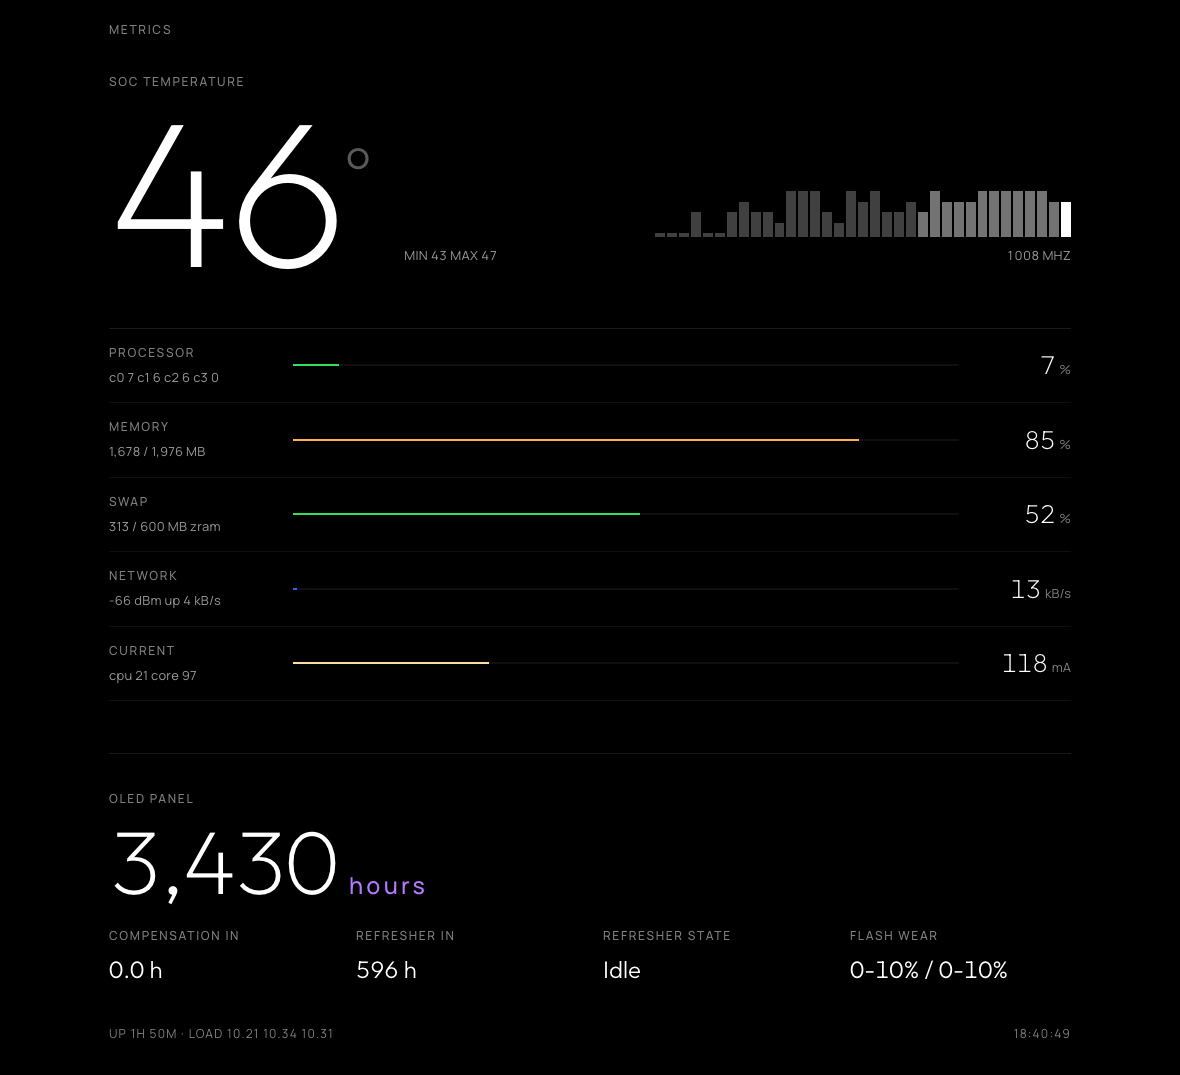
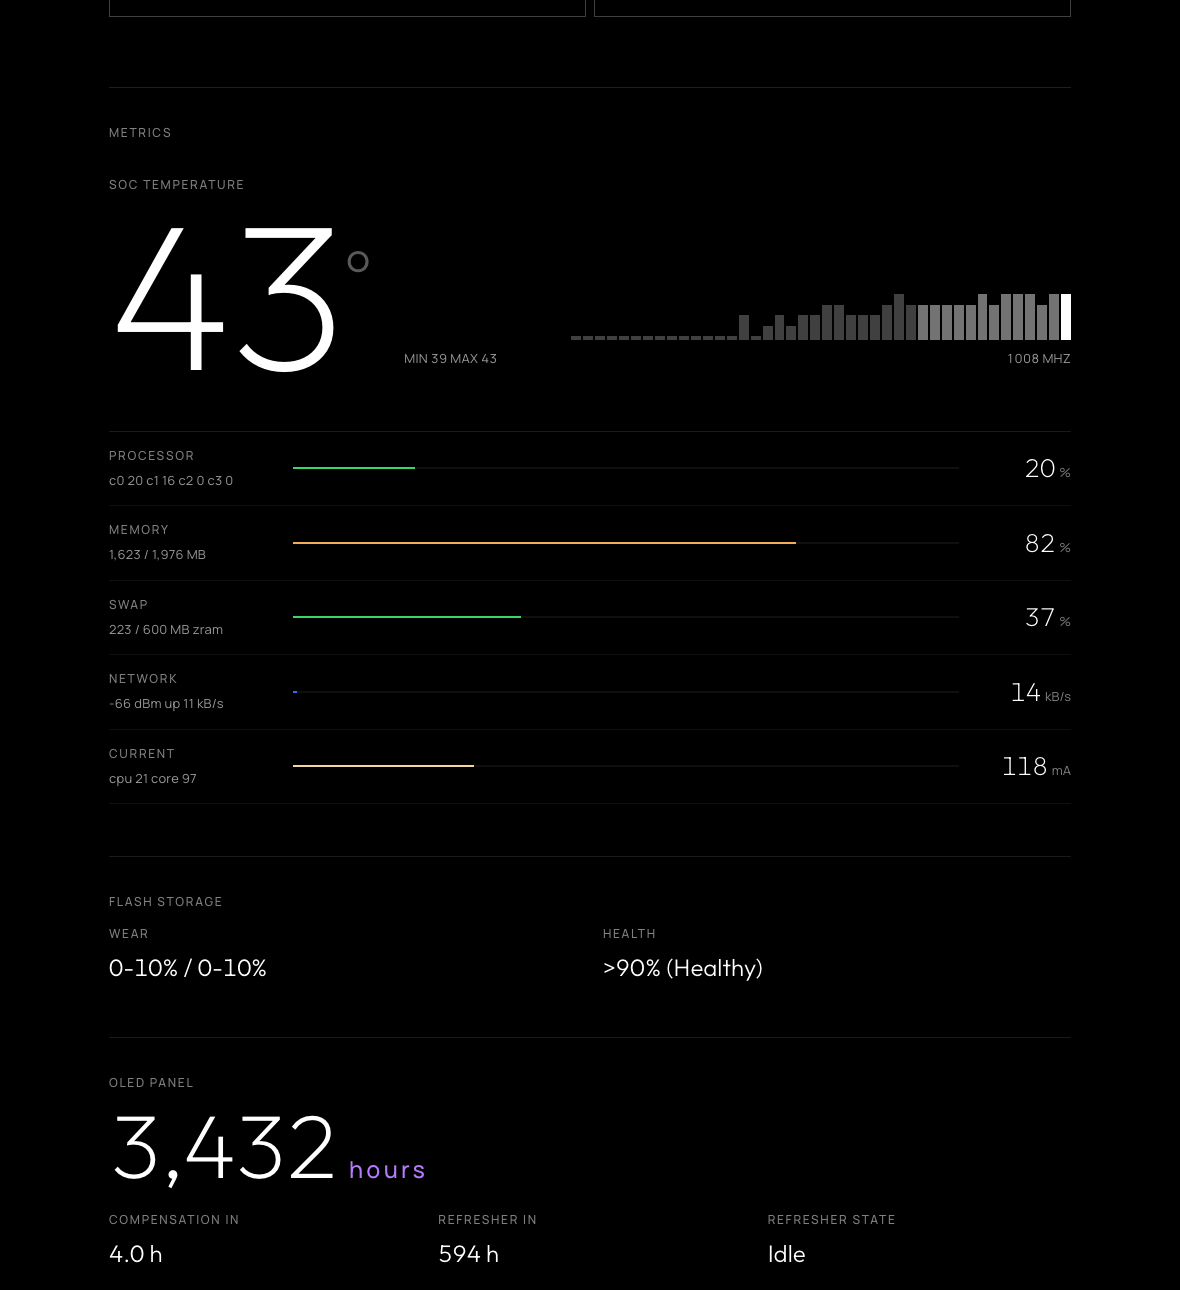
Fix hidden being ignored; move flash storage out of the OLED block
Two bugs, reported from the dashboard.

The `hidden` attribute was doing nothing on any element carrying an
author display rule. .cols and .r are grids, and an author declaration
beats the UA stylesheet's display:none, so hiding silently failed. The
standalone flash row rendered on an OLED set - blank, because it is only
populated when the panel is not OLED - and the network and current rows
would not have hidden on a wired set either. Restated as
[hidden]{display:none !important}.

Flash storage was also filed under "OLED panel", which it has nothing to
do with: eMMC wear is storage health and applies to every set. It now
has its own block showing wear and health, rendered unconditionally, and
the duplicate inside the panel block is gone. The OLED section is left
with the three figures that actually concern the panel.

Verified on the TV and against a simulated LCD payload: flash always
shows, the OLED block and the network and current rows hide correctly,
and `hidden` now works on a .cols element.

diff --git a/server/assets/ui.html b/server/assets/ui.html
@@ -62,6 +62,9 @@ body{
 
 .lbl{font-weight:500;font-size:12px;letter-spacing:.14em;text-transform:uppercase;color:var(--w50)}
 .rule{height:1px;background:var(--w10);border:0}
+/* `hidden` loses to any author display rule - .cols and .r are grids - so
+   restate it with priority. Without this, hiding those blocks silently fails. */
+[hidden]{display:none !important}
 
 /* ---- masthead ---- */
 header{display:flex;justify-content:space-between;align-items:baseline;gap:24px;flex-wrap:wrap}
@@ -249,9 +252,12 @@ footer{margin-top:38px;font-size:12px;letter-spacing:.10em;text-transform:upperc
 
 <section class="readouts" id="readouts"></section>
 
-<div class="cols" id="flashrow" hidden style="margin-top:clamp(30px,5vw,52px)">
-    <div><div class="lbl">Flash wear</div><div class="v num" id="flashval">&mdash;</div></div>
-    <div><div class="lbl">Flash health</div><div class="v" id="flasheol">&mdash;</div></div>
+<div class="panel" id="flashblock">
+    <div class="lbl">Flash storage</div>
+    <div class="cols" style="margin-top:14px">
+      <div><div class="lbl">Wear</div><div class="v num" id="flashval">&mdash;</div></div>
+      <div><div class="lbl">Health</div><div class="v" id="flasheol">&mdash;</div></div>
+    </div>
   </div>
 
   <section class="panel" id="panelblock" hidden>
@@ -261,7 +267,6 @@ footer{margin-top:38px;font-size:12px;letter-spacing:.10em;text-transform:upperc
     <div><div class="lbl">Compensation in</div><div class="v num" id="comp">&mdash;</div></div>
     <div><div class="lbl">Refresher in</div><div class="v num" id="refr">&mdash;</div></div>
     <div><div class="lbl">Refresher state</div><div class="v" id="rstate">&mdash;</div></div>
-    <div><div class="lbl">Flash wear</div><div class="v num" id="wear">&mdash;</div></div>
   </div>
 </section>
 </section>
@@ -414,13 +419,9 @@ async function tick() {
     q('comp').textContent = hrs(o.hours_until_comp) + ' h';
     q('refr').textContent = hrs(o.hours_until_refresher) + ' h';
     q('rstate').textContent = o.refresher_status || '—';
-    q('wear').textContent = (d.emmc && d.emmc.wear) || '—';
-    if (!hasOled && d.emmc && d.emmc.wear) {
-      // Flash health is not OLED-specific - keep it visible as its own row.
-      q('flashrow').hidden = false;
-      q('flashval').textContent = d.emmc.wear;
-      q('flasheol').textContent = d.emmc.eol || '';
-    }
+    // Flash storage is independent of panel type, so it always renders.
+    q('flashval').textContent = (d.emmc && d.emmc.wear) || '—';
+    q('flasheol').textContent = (d.emmc && d.emmc.health) || (d.emmc && d.emmc.eol) || '—';
 
     muted = !!d.muted;
     q('vol').textContent = muted ? 'MUTED' : d.volume;
